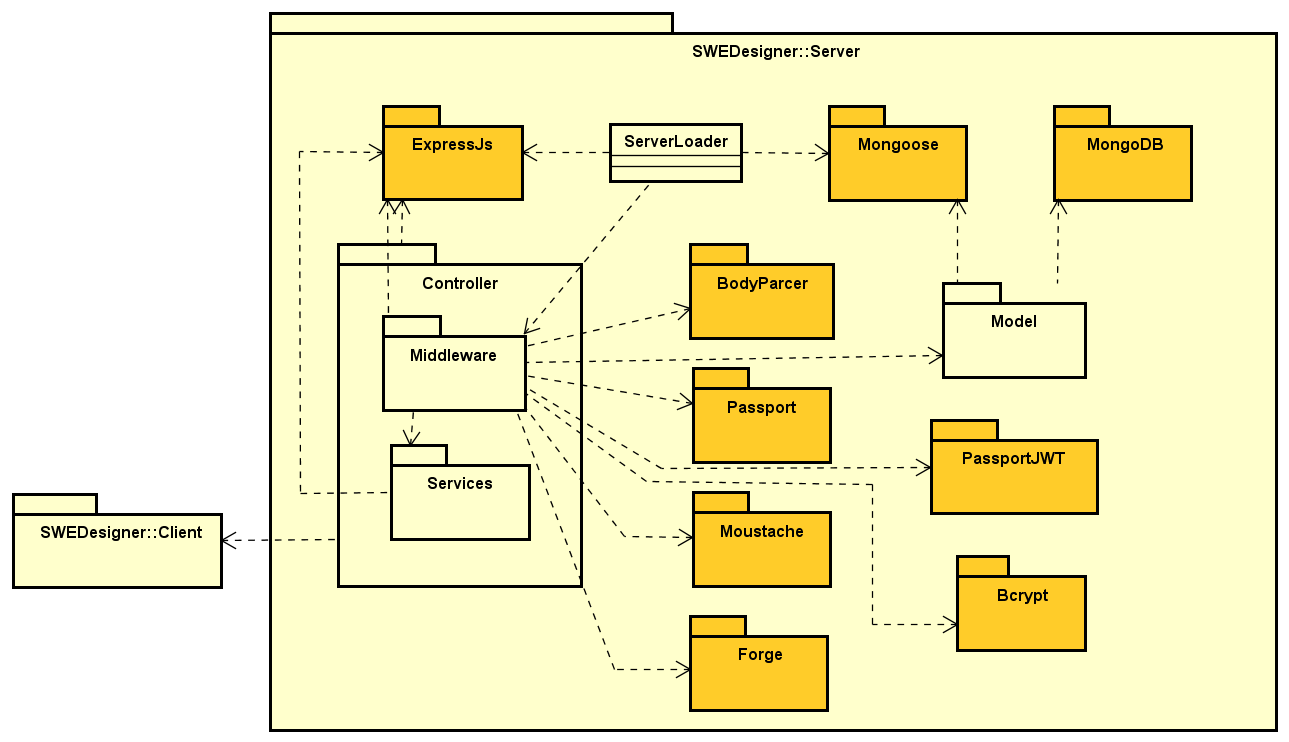
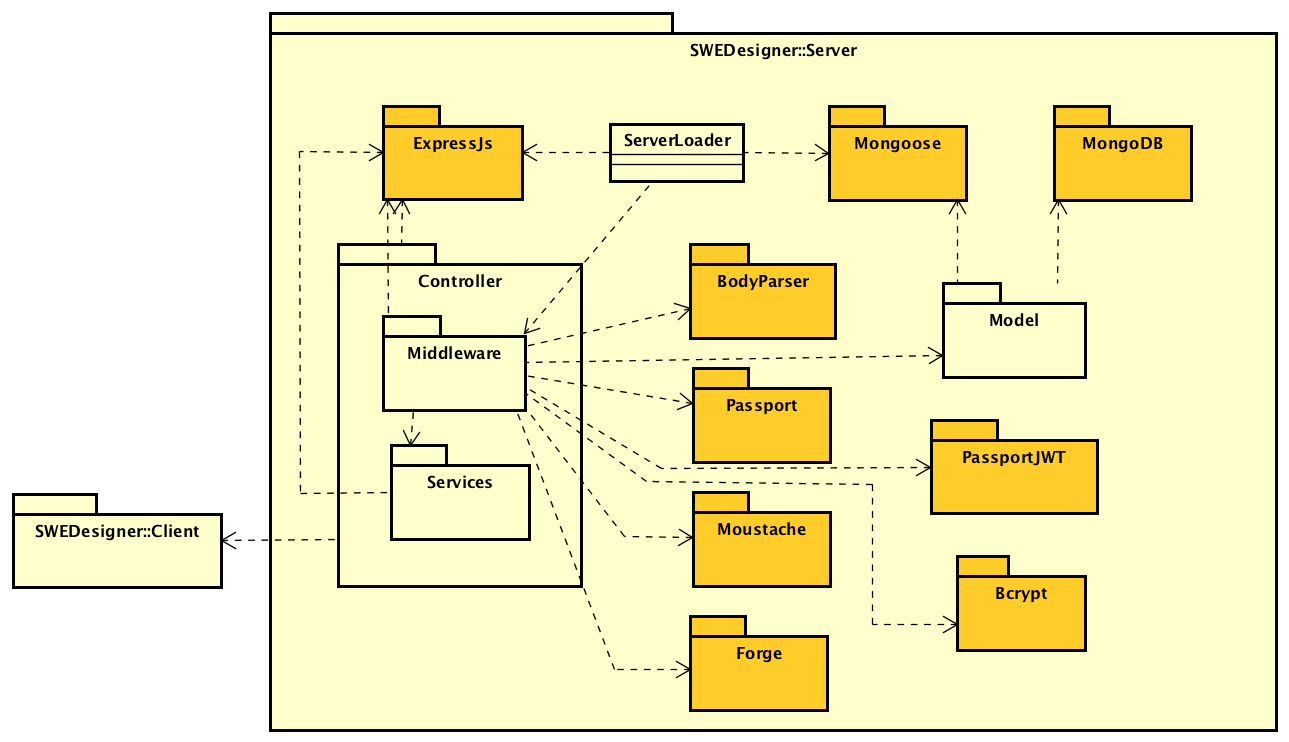
ST modificato il nome BodyParser, aggiunti termini al glossario, aggiunto angular

diff --git a/Esterni/Specifica Tecnica/res/sections/tecnologieUsate.tex b/Esterni/Specifica Tecnica/res/sections/tecnologieUsate.tex
@@ -2,10 +2,10 @@
 L'architettura è stata progettata utilizzando lo stack di \textbf{\glossaryItem{MEAN}} (\url {http://mean.io/ } ),il quale comprende 4 tecnologie, alcune delle quali espressamente richieste nel \glossaryItem{capitolato} d’appalto. Vengono di seguito elencate e descritte le principali tecnologie impiegate comprese in \textbf{\glossaryItem{MEAN}} e le motivazioni del loro utilizzo:
 \begin{itemize}
 \item \textbf{Node.js}: piattaforma per il \glossaryItem{back-end};
-\item \textbf{Express.js}: \glossaryItem{framework} per la realizzazione dell’applicazione web in \glossaryItem{Node.js} ;
+\item \textbf{Expressjs}: \glossaryItem{framework} per la realizzazione dell’applicazione web in \glossaryItem{Node.js} ;
 \item \textbf{MongoDB}: \glossaryItem{database} di tipo \glossaryItem{NoSQL} per la parte di recupero e salvataggio dei dati; 
 \item \textbf{Mongoose}: \glossaryItem{libreria} per interfacciarsi con il driver di \textbf{MongoDB};
-\item \textbf{Angular.js}: \glossaryItem{framework} \glossaryItem{JavaScript} la realizzazione del \glossaryItem{front-end} .
+\item \textbf{Angular 4.0}: \glossaryItem{framework} \glossaryItem{JavaScript} per la realizzazione del \glossaryItem{front-end} .
 \end{itemize}
 
 	\subsection{Server}
@@ -25,9 +25,9 @@ sono supportate in Node nella versione 4.4 scelta come versione di riferimento p
 lo sviluppo del progetto.
 \end{itemize}
 
-	\subsubsection{Express.js}
-\textbf{Express.js} è un \glossaryItem{framework} minimale per creare  \glossaryItem{Web App} con \glossaryItem{Node.js}. Richiede \glossaryItem{moduli} Node di terze parti per applicazioni che prevedono l'interazione con le \glossaryItem{database}.
-È stato utilizzato il \glossaryItem{framework} \glossaryItem{Express.js} per supportare lo sviluppo dell'application \glossaryItem{server} grazie alle utili e robuste caratteristiche da esso offerte, le quali sono pensate per non oscurare le funzionalità fornite da \glossaryItem{Node.js} aprendo così le porte all'utilizzo di moduli per \glossaryItem{Node.js} atti a supportare specifiche funzionalità.
+	\subsubsection{Expressjs}
+\textbf{Expressjs} è un \glossaryItem{framework} minimale per creare  \glossaryItem{Web App} con \glossaryItem{Node.js}. Richiede \glossaryItem{moduli} Node di terze parti per applicazioni che prevedono l'interazione con le \glossaryItem{database}.
+È stato utilizzato il \glossaryItem{framework} \glossaryItem{Expressjs} per supportare lo sviluppo dell'application \glossaryItem{server} grazie alle utili e robuste caratteristiche da esso offerte, le quali sono pensate per non oscurare le funzionalità fornite da \glossaryItem{Node.js} aprendo così le porte all'utilizzo di moduli per \glossaryItem{Node.js} atti a supportare specifiche funzionalità.
 
 \paragraph{Vantaggi}
 \begin{itemize}
@@ -100,12 +100,12 @@ Vengono di seguito descritte le \glossaryItem{librerie} aggiuntive utilizzate da
 	\subsubsection{Mustache}
 \textbf{Mustache} è un web \glossaryItem{template} che permette di espandere tags all'interno di un \glossaryItem{template}, racchiusi da 2 parentesi graffe,usando valori forniti da oggetti.
 
-	\subsubsection{Passport}: \label{passport} è un \glossaryItem{middleware} di autenticazione per \glossaryItem{Node.js}. Estremamente flessibile e modulare, Passport può essere facilmente inserito in qualsiasi applicazione web basata su Express.
+	\subsubsection{Passport}: \label{passport} è un \glossaryItem{middleware} di autenticazione per \glossaryItem{Node.js}. Estremamente flessibile e modulare, Passport può essere facilmente inserito in qualsiasi applicazione web basata su \glossaryItem{Expressjs}.
 
-	\subsubsection{BodyParser}: \glossaryItem{modulo} di terze parti per la corretta lettura delle informazioni contenute nel body delle richieste \glossaryItem{HTTP}; viene utilizzato come \glossaryItem{middleware} per {ExpressJS} e si occupa della corretta lettura delle informazioni contenute nel body di una richiesta
+	\subsubsection{BodyParser}: \glossaryItem{modulo} di terze parti per la corretta lettura delle informazioni contenute nel body delle richieste \glossaryItem{HTTP}; viene utilizzato come \glossaryItem{middleware} per {Expressjs} e si occupa della corretta lettura delle informazioni contenute nel body di una richiesta
 \glossaryItem{HTTP}. Nel nostro caso verrà impiegato per la lettura dei dati del body in formato \glossaryItem{JSON}.
 
-	\subsubsection{Forge}: è un \glossaryItem{modulo} in \glossaryItem{Javascript} che fornisce funzionalità di criptografia per la sicurezza e un set di strumenti per la realizzazione di \glossaryItem{Web-app}. 
+	\subsubsection{Forge}: è un \glossaryItem{modulo} in \glossaryItem{Javascript} che fornisce funzionalità di criptografia per la sicurezza e un set di strumenti per la realizzazione di \glossaryItem{Web app}. 
 
 	\subsubsection{PassportJWT}: è un \glossaryItem{modulo} che fornisce una strategia Passport(\S\ref{3.2}) per l'autenticazione con un \glossaryItem{JSON} Web Token, che è una tecnica compatta per trasmettere in modo sicuro le informazioni tra 2 oggetti \glossaryItem{JSON}.
 
@@ -113,13 +113,31 @@ Vengono di seguito descritte le \glossaryItem{librerie} aggiuntive utilizzate da
 
 \subsection{Client}
 
+	\subsubsection{Angular 4.0}
+	\textbf{Angular 4.0} è un \glossaryItem{framework} web \glossaryItem{open source} per lo sviluppo di applicazioni Web lato client; utile a semplificare la realizzazione di applicazioni web, come ad esempio le Single Page Application, cioè applicazioni le cui risorse vengono caricate dinamicamente su richiesta, senza necessità di ricaricare l’intera pagina.
+
+\paragraph{Vantaggi}
+\begin{itemize}
+\item \textbf{Velocità}: Riduce in maniera considerevole il codice necessario a realizzare applicazioni \glossaryItem{HTML}/\glossaryItem{JavaScript};
+\item \textbf{Ampia documentazione disponibile};
+\item \textbf{Data Binding bidirezionale}: approccio automatico per aggiornare la vista ogniqualvolta il model cambia e viceversa. Ciò semplifica lo sviluppo eliminando la necessità di manipolare il \glossaryItem{DOM};
+\item \textbf{Sviluppato per facilitare la fase di test};
+\item \textbf{Direttive}: caratteristica peculiare di Angular e permettono di estendere la sintassi \glossaryItem{HTML} , creando dei componenti specifici per la propria applicazione e facilmente riutilizzabili;
+\end{itemize}
+
+\paragraph{Svantaggi}
+\begin{itemize}
+\item \textbf{Maggior studio}: curva di apprendimento più ripida rispetto ad altri \glossaryItem{framework};
+\item \textbf{Codice articolato}: ciò potrebbe comportare, in caso di variazione dei requisiti, delle difficoltà delle successive modifiche.
+\end{itemize}
+
 	\subsubsection{Draw2D}
 	\textbf{Drwa2D} è una libreria \glossaryItem{JavaScript} di \glossaryItem{diagrammi} che consente di creare rapidamente applicazioni di grafici interattive e grafici che vengono eseguiti in modo nativo su tutti i browser principali.
 
 \paragraph{Vantaggi}
 \begin{itemize}
 \item \textbf{Non sono necessari altri plug-in}: Ciò elimina i plug-in di dipendenza dai fornitori;
-\item \textbf{\glossaryItem{Open-source}}:Le tecnologie coinvolte sono libere e ci sono molte implementazioni aperte, nessun fornitore può rimuovere un prodotto o una tecnologia che lascia in pratica la tua applicazione inoperabile;
+\item \textbf{\glossaryItem{Open source}}:Le tecnologie coinvolte sono libere e ci sono molte implementazioni aperte, nessun fornitore può rimuovere un prodotto o una tecnologia che lascia in pratica la tua applicazione inoperabile;
 \item \textbf{Le tecnologie sono standardizzate}: L'applicazione è distribuibile al numero massimo di utenti del browser senza bisogno di ulteriori configurazioni o installazione sul computer \glossaryItem{client}. Gli ambienti aziendali di grandi dimensioni spesso non amano consentire agli individui di installare plug-in del \glossaryItem{browser} e non amano cambiare la build standard creata su tutte le macchine.
 \end{itemize}
 

diff --git a/Esterni/Glossario/res/sections/glossario.tex b/Esterni/Glossario/res/sections/glossario.tex
@@ -77,6 +77,8 @@ di disegnare, e progettare quindi, qualcosa}, nonumberlist
 		\newglossaryentry{Drag-and-drop}{name={Drag-and-drop}, description={Sistema di "trascinamento" di un elemento sullo schermo}, nonumberlist
 }
 
+		\newglossaryentry{DOM}{name={DOM}, description={letteralmente modello a oggetti del documento, è una forma di rappresentazione dei documenti strutturati come modello orientato agli oggetti;usato per la rappresentazione di documenti strutturati in maniera da essere neutrali sia per la lingua che per la piattaforma.}, nonumberlist
+}
 %E
 	\newglossaryentry{Editor}{name={Editor}, description={In informatica, é uno strumento tipicamente usato per creare,modificare e salvare un determinato tipo di file. Ad esempio un editor di testo è un programma che permette di realizzare dei file di testo.}, nonumberlist
 }
@@ -84,7 +86,7 @@ di disegnare, e progettare quindi, qualcosa}, nonumberlist
 		\newglossaryentry{Event-driven}{name={Event-driven}, description={Nella programmazione informatica, la programmazione event-driven è un paradigma di programmazione in cui il flusso del programma è determinato da eventi quali le azioni degli utenti (click del mouse, digitazione di tasti), output dei sensori o messaggi provenienti da altri programmi/thread.}, nonumberlist
 }
 
-		\newglossaryentry{Express.js}{name={Express.js}, description={Express è un framework per applicazioni web \glossaryitem{Node.js} flessibile e leggero che fornisce una serie di funzioni avanzate per le applicazioni web e per dispositivi mobili.}, nonumberlist
+		\newglossaryentry{Expressjs}{name={Expressjs}, description={Express è un framework per applicazioni web \glossaryitem{Node.js} flessibile e leggero che fornisce una serie di funzioni avanzate per le applicazioni web e per dispositivi mobili.}, nonumberlist
 }
 %F
 
@@ -119,6 +121,9 @@ di disegnare, e progettare quindi, qualcosa}, nonumberlist
 
 \newglossaryentry{HTTP}{name={HTTP}, description={Acronimo di HyperText Transfer Protocol (protocollo di trasferimento di un ipertesto) è un protocollo a livello applicativo usato come principale sistema per la trasmissione d'informazioni sul web ovvero in un'architettura tipica \glossaryItem{client-server.}}, nonumberlist
 }
+
+\newglossaryentry{HTML}{name={HTML}, description={acronimo di "HyperText Markup Language", è un linguaggio per la progettazione delle pagine web.}, nonumberlist}
+
 %I
 	
 		\newglossaryentry{IA}{name={IA}, description={Acronimo che rappresenta \glossaryItem{Intelligenza Artificiale}}, nonumberlist
@@ -203,7 +208,7 @@ di disegnare, e progettare quindi, qualcosa}, nonumberlist
 	\newglossaryentry{NoSQL}{name={NoSQL}, description={è un movimento che promuove sistemi software dove la persistenza dei dati è caratterizzata dal fatto di non utilizzare il modello relazionale, di solito usato dai database tradizionali (RDBMS). L'espressione NoSQL fa riferimento al linguaggio SQL, che è il più comune linguaggio di interrogazione dei dati nei database relazionali, qui preso a simbolo dell'intero paradigma relazionale.}, nonumberlist
 }
 %O
-		\newglossaryentry{Open-source}{name={Open-source}, description={Indica che il \glossaryItem{Codice} sorgente di un prodotto software è reso acessibile da una licenza, essa permette a terzi il diritto di poter studiare, cambiare e ridistribuire il software modificato}, nonumberlist
+		\newglossaryentry{Open source}{name={Open source}, description={Indica che il \glossaryItem{Codice} sorgente di un prodotto software è reso acessibile da una licenza, essa permette a terzi il diritto di poter studiare, cambiare e ridistribuire il software modificato}, nonumberlist
 }
 
 %P
